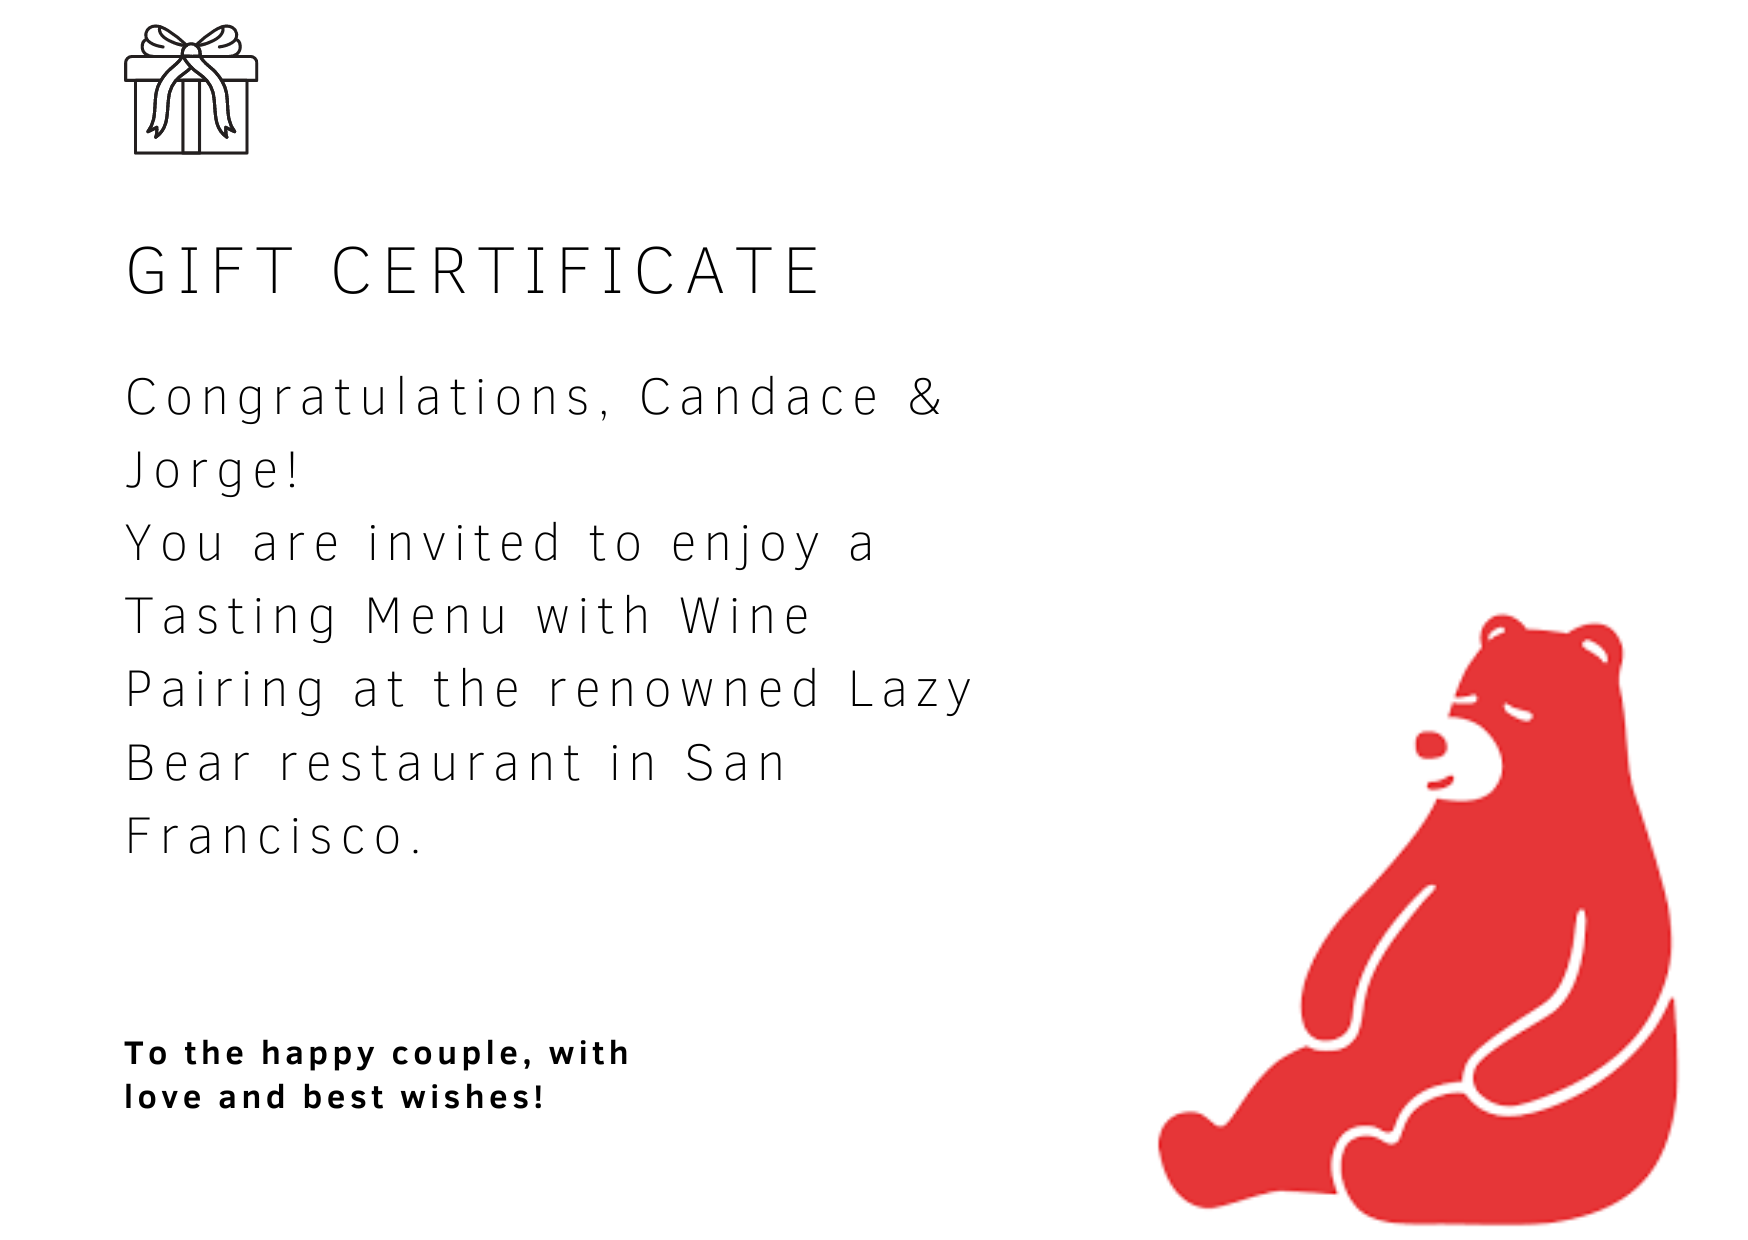
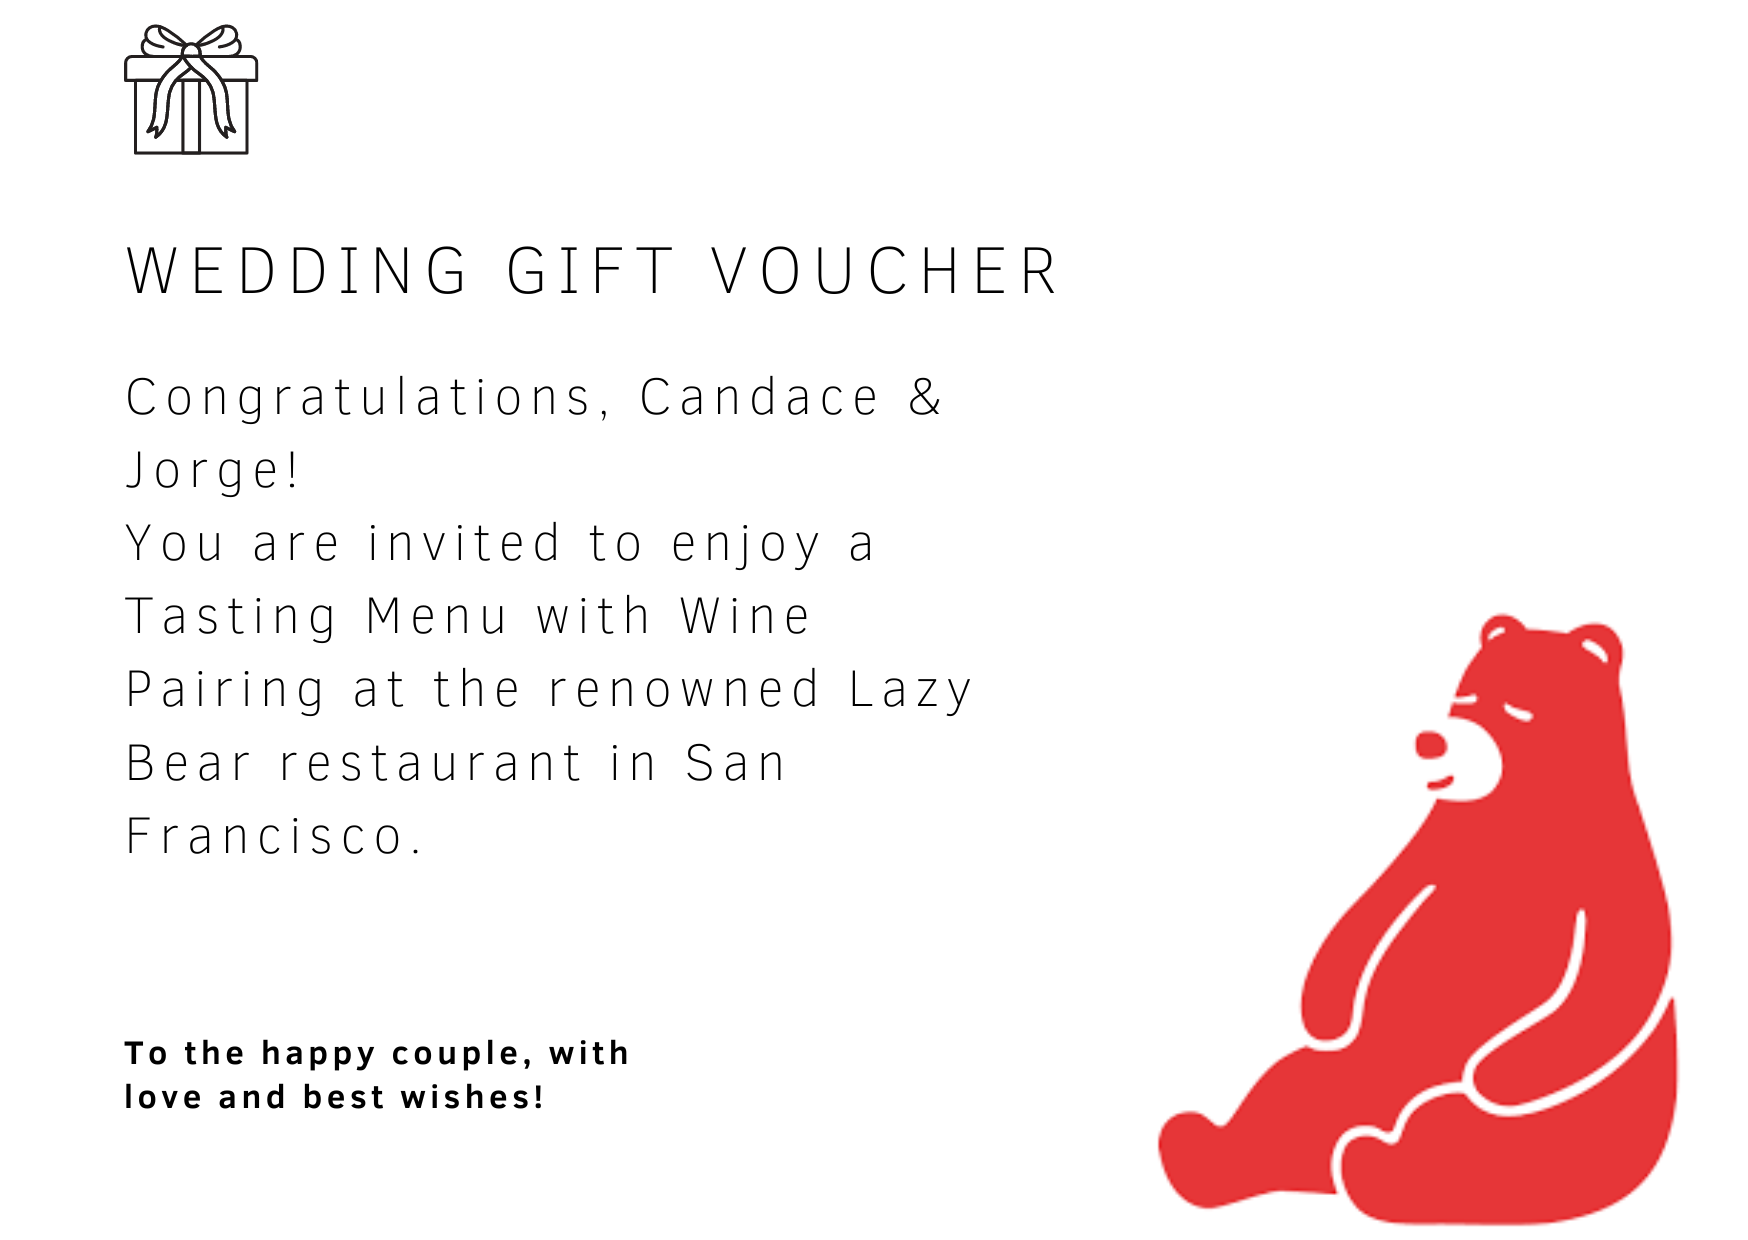
update vouchers

Changed region(s): [[0.0618, 0.1839, 0.4943, 0.2452], [0.5252, 0.2145, 0.6178, 0.2452]]

diff --git a/content/posts/voucher-roadsurfer.md b/content/posts/voucher-roadsurfer.md
@@ -1,0 +1,20 @@
++++
+title = 'Voucher Roadsurfer'
+date = 2024-06-15T11:01:04Z
+image ='/images/Roadsurfer.png'
++++
+
+## Roadsurfer Gift Voucher
+
+Congratulations on your wedding!
+
+As a special gift, we are thrilled to present you with a voucher valued at €1000. This voucher is to be used towards the reservation of a camper van on the RoadSurfer platform, allowing you both to embark on an unforgettable adventure together.
+
+Voucher Details:
+* Amount: €1000
+* Purpose: Reservation of a Camper Van on RoadSurfer
+* valid for 3 years
+
+We hope this gift helps you create lasting memories on your travels. Enjoy the journey!
+
+With love and best wishes,

diff --git a/content/posts/golden-gate.md b/content/posts/golden-gate.md
@@ -1,6 +1,6 @@
 +++
 title = 'Golden Gate Seaplane Tour'
-date = 2024-06-11T08:57:18Z
+date = 2024-06-15T11:57:18Z
 image ='/images/golden-gate.png'
 +++
 

diff --git a/content/posts/voucher-lazybearsf.md b/content/posts/voucher-lazybearsf.md
@@ -1,5 +1,5 @@
 +++
-date = 2024-06-11T20:37:30Z
+date = 2024-06-15T11:37:30Z
 title = 'Voucher Lazybearsf'
 image ='/images/lazy-bear.png'
 +++
